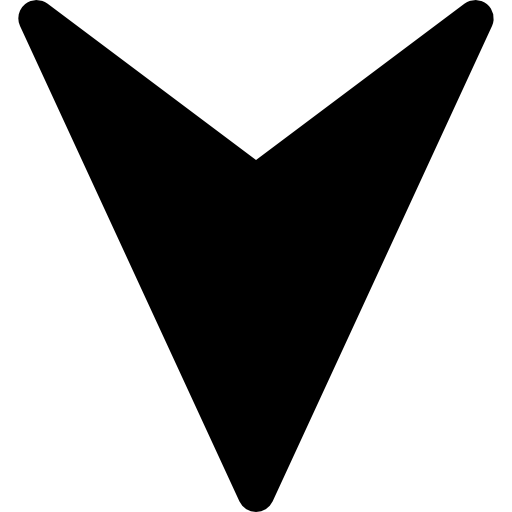
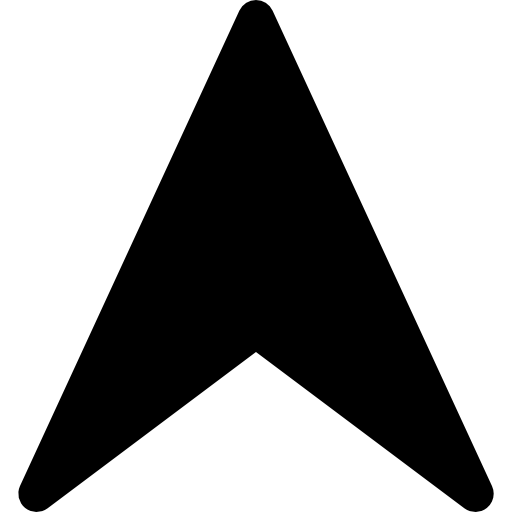
fix targeting arrows and such

diff --git a/New folder/gallery_site/Boss Fights/game.py b/New folder/gallery_site/Boss Fights/game.py
@@ -309,7 +309,7 @@ class Game:
         self.screen.blit(perc_surf, (center_x - perc_surf.get_width() // 2, bar_y2 + (10 - perc_surf.get_height()) // 2))
 
         if self.player_turn:
-            prompt = self.font.render("Player Turn - Use ← → to choose target, SPACE to attack, H to heal", True, (255, 255, 255))
+            prompt = self.font.render("Player Turn - Use <- -> to choose target, SPACE to attack, H to heal", True, (255, 255, 255))
             self.screen.blit(prompt, (10, bar_y2 + 20))
 
     def draw(self) -> None:
@@ -331,9 +331,9 @@ class Game:
             self.screen.blit(hp_surf, (x + 20, 140))
             # show selection arrow if player_turn and selected (scaled to minion size)
             if self.player_turn and self.target_index == i + 1:
-                arrow_w = int(m.image.get_width() * 0.6)
-                arrow_h = int(arrow_w * 0.6)
-                arrow_x = x + m.image.get_width() // 2 - arrow_w // 2
+                arrow_w = 50
+                arrow_h = 50
+                arrow_x = x // 2 - arrow_w // 2
                 arrow_y = 40
                 if self.select_arrow:
                     # cache scaled arrow images by size to avoid repeated scaling
@@ -386,11 +386,29 @@ class Game:
 
         # draw player-turn target arrow over boss if selected
         if self.player_turn and self.target_index == 0:
-            w, _ = self.screen.get_size()
+            arrow_w = 50
+            arrow_h = 50
+            arrow_x = (self.screen.get_width() - arrow_w)// 2
+            arrow_y = 80
             if self.select_arrow:
-                self.screen.blit(self.select_arrow, (w // 2 - 32, 40))
+                # cache scaled arrow images by size to avoid repeated scaling
+                if not hasattr(self, '_arrow_cache'):
+                    self._arrow_cache = {}
+                cache_key = (arrow_w, arrow_h)
+                if cache_key not in self._arrow_cache:
+                    try:
+                        self._arrow_cache[cache_key] = pygame.transform.scale(self.select_arrow, (arrow_w, arrow_h))
+                    except Exception:
+                        self._arrow_cache[cache_key] = None
+                scaled = self._arrow_cache.get(cache_key)
+                if scaled:
+                    self.screen.blit(scaled, (arrow_x, arrow_y))
+                else:
+                    # fallback polygon sized relative to minion
+                    pygame.draw.polygon(self.screen, (255, 255, 255), [(arrow_x + arrow_w // 2, arrow_y), (arrow_x, arrow_y + arrow_h), (arrow_x + arrow_w, arrow_y + arrow_h)])
             else:
-                pygame.draw.polygon(self.screen, (255, 255, 255), [(w // 2, 48), (w // 2 - 12, 64), (w // 2 + 12, 64)])
+                pygame.draw.polygon(self.screen, (255, 255, 255), [(arrow_x + arrow_w // 2, arrow_y), (arrow_x, arrow_y + arrow_h), (arrow_x + arrow_w, arrow_y + arrow_h)])
+
         self.draw_ui()
         fps_surf = self.font.render(str(int(self.clock.get_fps())), True, (255, 255, 255))
         self.screen.blit(fps_surf, (self.screen.get_width() - 30, 10))

diff --git a/New folder/gallery_site/Boss Fights/attacks.py b/New folder/gallery_site/Boss Fights/attacks.py
@@ -118,7 +118,7 @@ class SideWallAttack(Attack):
         super().__init__(name="SideWall", element_type="wind", damage=dmg)
         self.side = side
         self.width_frac = width_frac
-        self.charge_time = 45
+        self.charge_time = 60
         self.active_time = 120
         self.max_number = 1
         self.damage = 0
